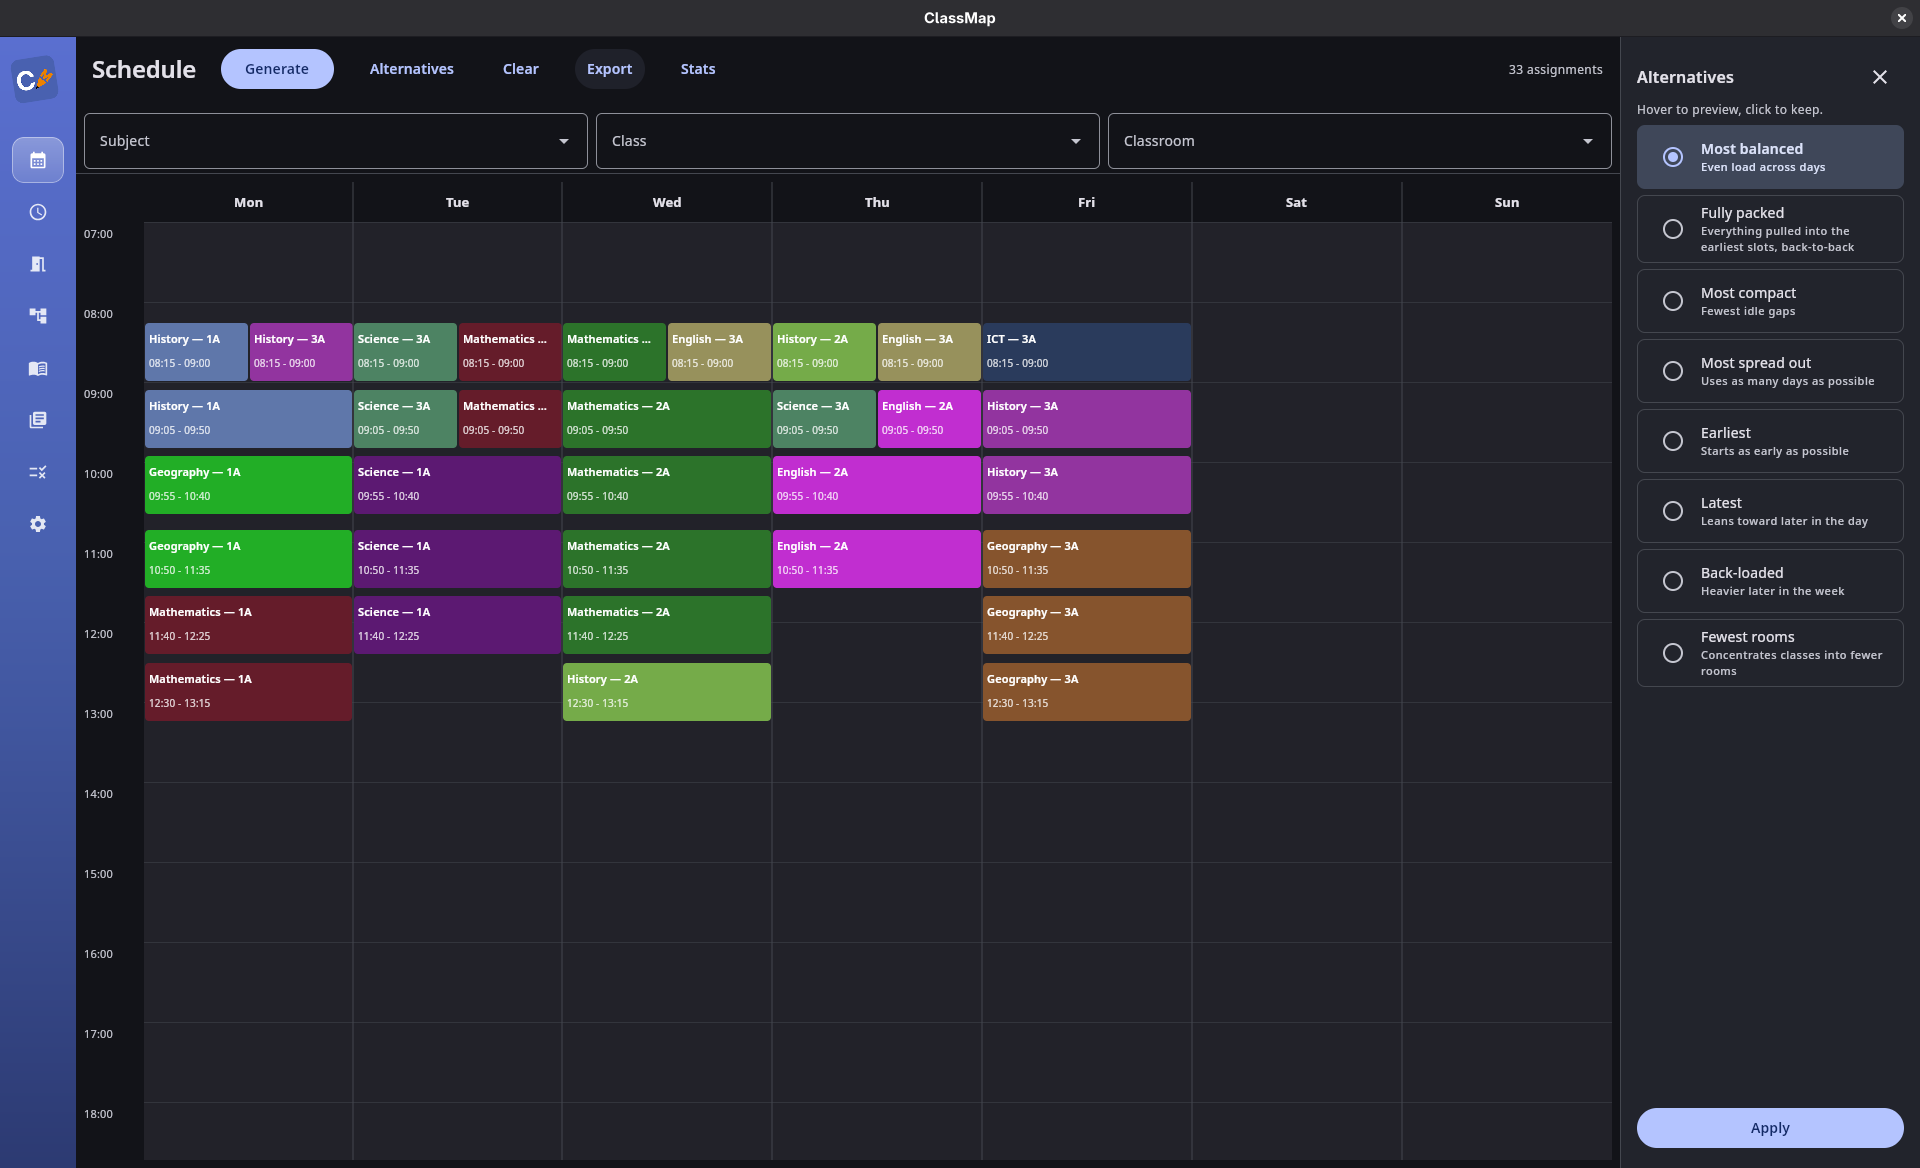
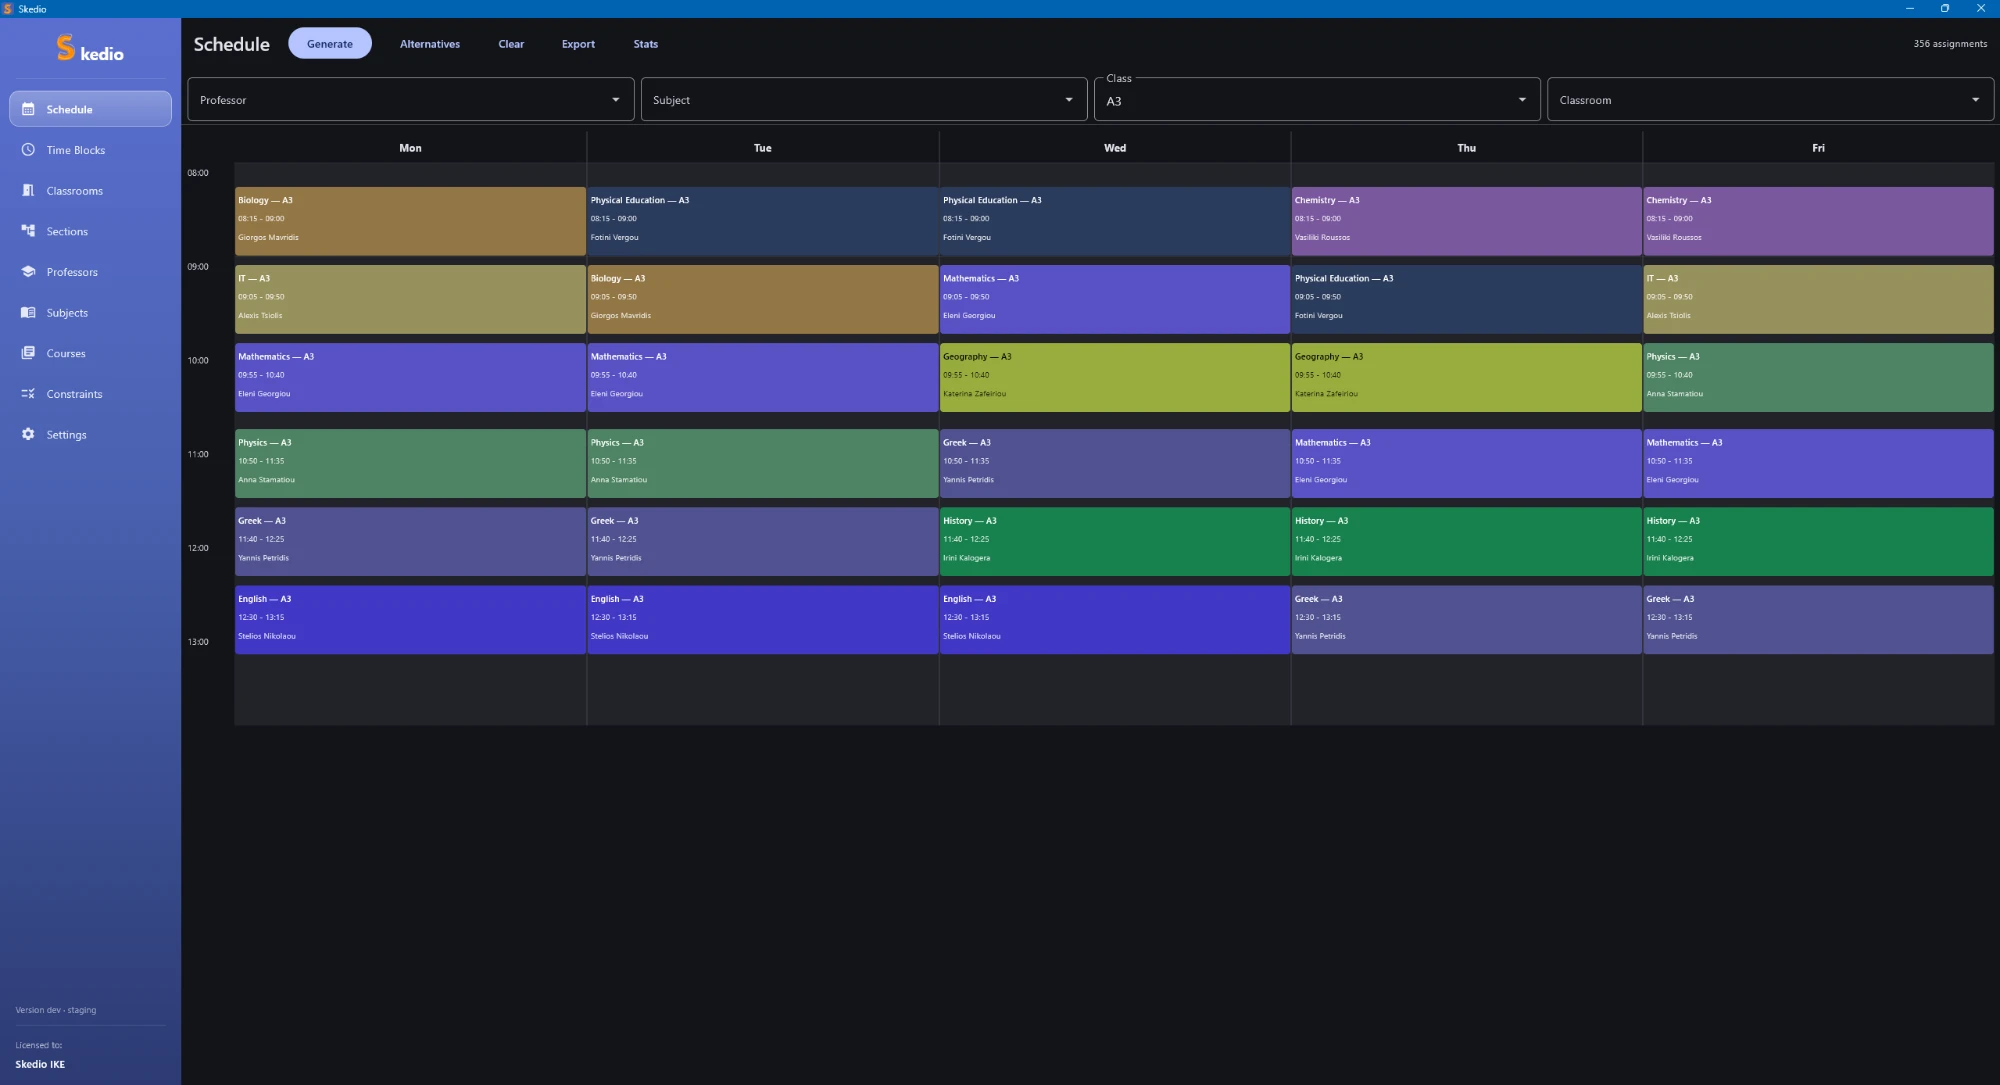
Update Greek copy, refresh promo tiers, swap hero screenshot
- Reword desktop-app phrasing, trim features step 03, drop "real-world" claim
- Simplify Courses Matrix and Interactive Grid descriptions
- Rework beta offer: 10 + 15 (25 total) users, new note copy, mirrored in English
- Replace hero screenshot with latest rebranded app UI

diff --git a/src/i18n/el.js b/src/i18n/el.js
@@ -6,7 +6,7 @@ const el = {
   landing: {
     hero: {
       headline: ['Η οριστική λύση', 'για το πρόγραμμά σας.'],
-      sub: 'Το Skedio είναι μια εφαρμογή desktop που λύνει αυτόματα τις συγκρούσεις ανάμεσα σε καθηγητές, μαθητές και αίθουσες. Διαθέσιμο για Windows, macOS και Linux, συγκεντρώνει τα δεδομένα σας και δημιουργεί βέλτιστα εβδομαδιαία προγράμματα σε λίγα λεπτά.',
+      sub: 'Το Skedio είναι μια desktop εφαρμογή που λύνει αυτόματα τις συγκρούσεις ανάμεσα σε καθηγητές, μαθητές και αίθουσες. Διαθέσιμο για Windows, macOS και Linux, συγκεντρώνει τα δεδομένα σας και δημιουργεί βέλτιστα εβδομαδιαία προγράμματα σε λίγα λεπτά.',
       ctaPrimary: 'Δες πώς λειτουργεί',
       mockup: 'Προεπισκόπηση προγράμματος Skedio',
     },
@@ -35,16 +35,16 @@ const el = {
     promo: {
       badge: 'Beta',
       title: 'Πρόσβαση Beta & Προσφορά Γνωριμίας',
-      body: 'Το Skedio βρίσκεται σε φάση beta και παρέχεται εντελώς δωρεάν σε όλους. Τα σχόλιά σας θα διαμορφώσουν την επίσημη έκδοση 1.0 που θα κυκλοφορήσει τον Σεπτέμβριο. Εξασφαλίστε την άδεια σας τώρα, πριν εξαντληθούν οι θέσεις:',
+      body: 'Το Skedio βρίσκεται σε φάση beta και παρέχεται εντελώς δωρεάν στους πρώτους 25 χρήστες. Εξασφαλίστε την άδεια σας τώρα, πριν εξαντληθούν οι θέσεις:',
       tier1: {
         title: 'Πρώτοι 10 Χρήστες: Δωρεάν Άδεια (Όλες οι Εκδόσεις)',
         desc: 'Περιλαμβάνει όλες τις μελλοντικές εκδόσεις, λειτουργίες και ενημερώσεις για πάντα.',
       },
       tier2: {
-        title: 'Επόμενοι 40 Χρήστες: Δωρεάν Άδεια (Μόνο V1)',
+        title: 'Επόμενοι 15 Χρήστες: Δωρεάν Άδεια (Μόνο V1)',
         desc: 'Μόνιμη πρόσβαση αποκλειστικά στην έκδοση του Σεπτεμβρίου (V1.0) χωρίς κόστος.',
       },
-      note: 'Σημείωση: Όλοι οι χρήστες έχουν άμεση, δωρεάν πρόσβαση κατά τη διάρκεια της beta. Επικοινωνήστε μαζί μας σήμερα για να κλειδώσετε τη θέση σας.',
+      note: 'Σημείωση: Όλοι οι χρήστες που θα λάβουν την προσφορά θα έχουν δωρεάν set-up της εφαρμογής και τεχνική υποστήριξη. Επικοινωνήστε μαζί μας σήμερα για να κλειδώσετε τη θέση σας.',
       btn: 'Διεκδικήστε τη Θέση σας',
     },
     team: {
@@ -80,7 +80,7 @@ const el = {
       {
         number: '03',
         title: 'Δημιούργησε το πρόγραμμα',
-        body: 'Επιλέγεις μαθήματα και διάρκειες, το Skedio φτιάχνει αυτόματα πρόγραμμα χωρίς συγκρούσεις.',
+        body: 'Επιλέγεις μαθήματα, το Skedio φτιάχνει αυτόματα πρόγραμμα.',
       },
       {
         number: '04',
@@ -95,7 +95,7 @@ const el = {
           { name: 'Τμήματα & Τάξεις', desc: 'Ιεραρχική οργάνωση τμημάτων και υποστήριξη σύνθετων τάξεων που συνενώνουν διαφορετικές ομάδες μαθητών.' },
           { name: 'Καθηγητές & Μαθητές', desc: 'Διαχείριση προσωπικού με ενσωματωμένο ημερολόγιο διαθεσιμότητας. Παρακολούθηση μαθητών και απευθείας ανάθεση σε τμήματα.' },
           { name: 'Μαθήματα & Αίθουσες', desc: 'Εύκολη διαχείριση λιστών για μαθήματα και φυσικούς χώρους μέσω πλαϊνών πάνελ.' },
-          { name: 'Διαχείριση Αναθέσεων', desc: 'Κεντρική σύνδεση μεταβλητών: ορίστε Καθηγητή, Μάθημα, Τμήμα και Αίθουσα, καθορίζοντας τον αριθμό συναντήσεων και τη διάρκεια.' },
+          { name: 'Διαχείριση Αναθέσεων', desc: 'Ορίστε Καθηγητή, Μάθημα, Τμήμα και Αίθουσα, καθορίζοντας τον αριθμό συναντήσεων και τη διάρκεια.' },
         ],
       },
       {
@@ -109,7 +109,7 @@ const el = {
       {
         title: 'Διαχείριση & Εξαγωγή',
         items: [
-          { name: 'Διαδραστικό Πρόγραμμα', desc: 'Εβδομαδιαίο ημερολόγιο. Κάντε κλικ σε μια ανάθεση για μετακίνηση, ή φιλτράρετε ανά Καθηγητή, Μάθημα, Τμήμα ή Αίθουσα.' },
+          { name: 'Διαδραστικό Πρόγραμμα', desc: 'Εβδομαδιαίο ημερολόγιο. Κάντε κλικ σε ένα μάθημα για μετακίνηση, ή φιλτράρετε ανά Καθηγητή, Μάθημα, Τμήμα ή Αίθουσα.' },
           { name: 'Διαγνωστικά', desc: 'Παρακολούθηση του προγράμματος. Έλεγχος χρήσης αιθουσών και εντοπισμός κενών για καθηγητές και τμήματα.' },
           { name: 'Σύστημα Εξαγωγών', desc: 'Εξαγωγή σε PDF, iCalendar (.ics), ή αυτόματη δημιουργία μαζικών PDF ανά τμήμα και καθηγητή.' },
           { name: 'Ιδιωτικότητα (GDPR)', desc: 'Τα δεδομένα αποθηκεύονται τοπικά σε ανεξάρτητα αρχεία SQLite, εξασφαλίζοντας πλήρη συμμόρφωση χωρίς χρήση cloud.' },
@@ -118,7 +118,7 @@ const el = {
     ],
     detail: {
       title: 'Φτιαγμένο για εκπαιδευτικά ιδρύματα',
-      body: 'Το Skedio είναι σχεδιασμένο με βάση τον πραγματικό τρόπο λειτουργίας ενός εκπαιδευτικού ιδρύματος, διαχειριζόμενο ευέλικτα ωράρια, καθηγητές που εναλλάσσονται και πολύπλοκα προγράμματα μαθητών.',
+      body: 'Το Skedio είναι σχεδιασμένο με βάση τον τρόπο λειτουργίας ενός εκπαιδευτικού ιδρύματος, διαχειριζόμενο ευέλικτα ωράρια, καθηγητές που εναλλάσσονται και πολύπλοκα προγράμματα μαθητών.',
     },
     cta: {
       title: 'Επικοινωνία & Αδειοδότηση',

diff --git a/src/i18n/en.js b/src/i18n/en.js
@@ -35,16 +35,16 @@ const en = {
     promo: {
       badge: 'Beta',
       title: 'Beta Access & Early Adopter Promo',
-      body: 'Skedio is currently in open beta and completely free for all users. Your feedback will drive our official Version 1.0 launch this September. Secure a lifetime license now before spots fill up:',
+      body: 'Skedio is currently in beta and provided completely free to the first 25 users. Secure your license now, before spots run out:',
       tier1: {
         title: 'First 10 Users: Free Lifetime Access (All Versions)',
         desc: 'Includes all future updates, features, and new versions forever.',
       },
       tier2: {
-        title: 'Next 40 Users: Free Lifetime Access (V1 Only)',
+        title: 'Next 15 Users: Free Lifetime Access (V1 Only)',
         desc: 'Permanent access to the September release (V1.0) at no cost.',
       },
-      note: 'Note: Everyone gets immediate free access during the beta phase. Contact us today to lock in your lifetime deal.',
+      note: 'Note: Everyone who claims this offer gets free application set-up and technical support. Contact us today to lock in your spot.',
       btn: 'Claim Your Spot',
     },
     team: {
